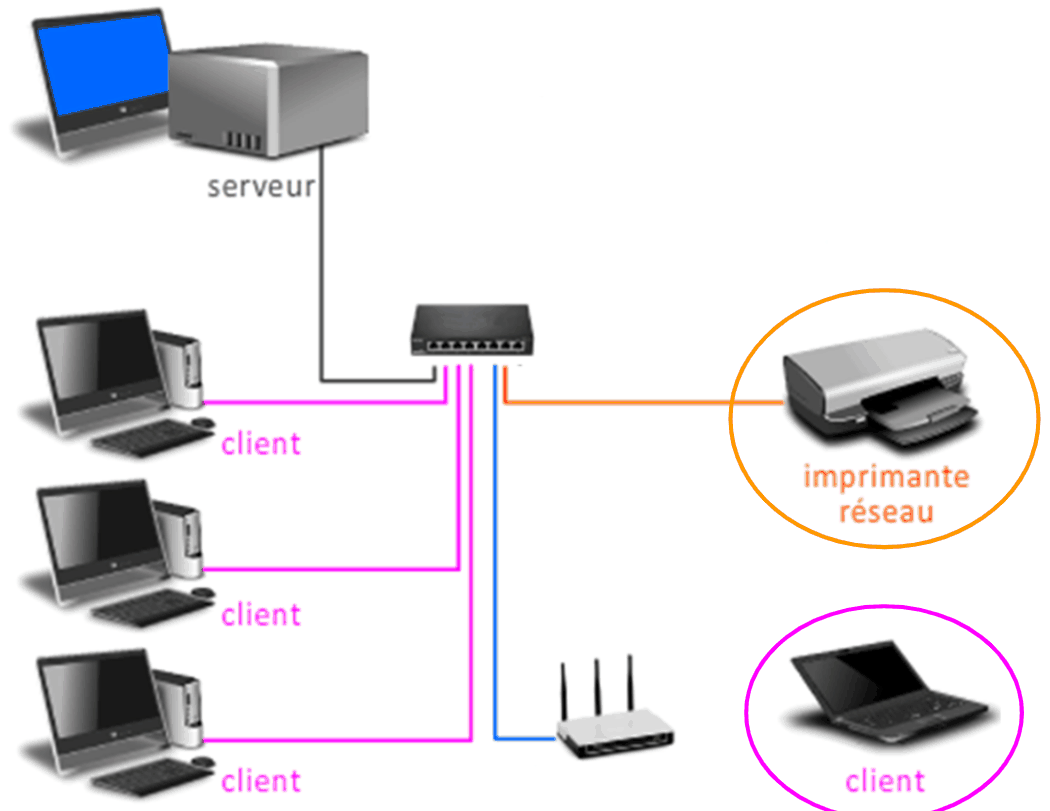
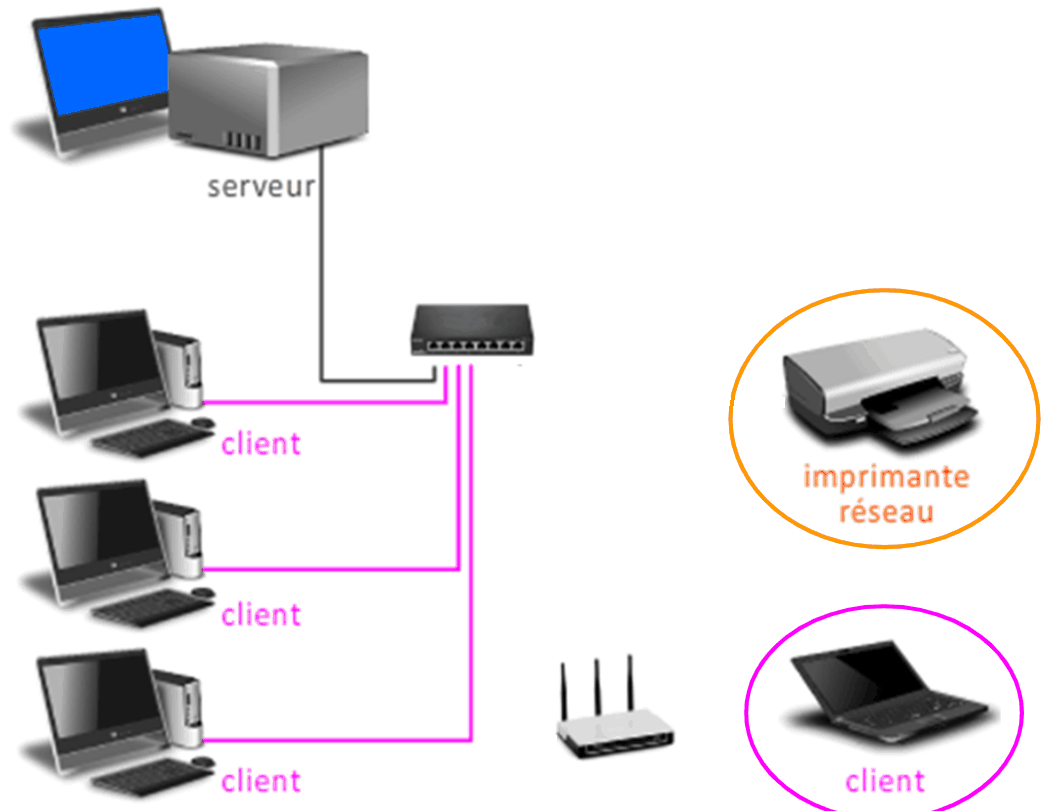
P2 5e, évaluation n°1 : retire deux liaisons du schéma de l'exercice 2
Borne wifi–commutateur et commutateur–imprimante ne sont plus dessinées :
l'élève les trace lui-même.

Changed region(s): [[0.4571, 0.4316, 0.7619, 0.9248]]

diff --git a/Niveau 5/Organiser un réseau numérique/evaluation1_eleve.html b/Niveau 5/Organiser un réseau numérique/evaluation1_eleve.html
@@ -410,7 +410,7 @@
         </div>
         <p class="etat-trace" id="etat-trace" role="status" aria-live="polite" data-nolecture></p>
         <div class="sch" id="sch">
-          <img src="img/eval1-schema-complet.png" width="1050" height="811" alt="Schéma du réseau du collège. Huit appareils repérés par les lettres A à H. L'ordinateur portable et l'imprimante réseau sont entourés.">
+          <img src="img/eval1-schema-complet.png?v=2" width="1050" height="811" alt="Schéma du réseau du collège. Huit appareils repérés par les lettres A à H. L'ordinateur portable et l'imprimante réseau sont entourés.">
           <svg class="trace" id="sch-svg" viewBox="0 0 1050 811" preserveAspectRatio="none" aria-hidden="true"></svg>
         </div>
         <ul class="liste-liens" id="liste-liens" style="margin-top:12px"></ul>
